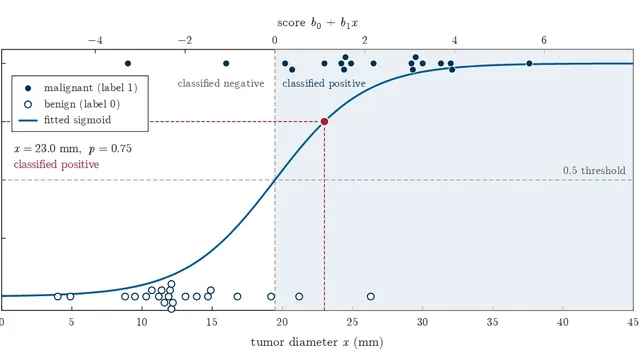
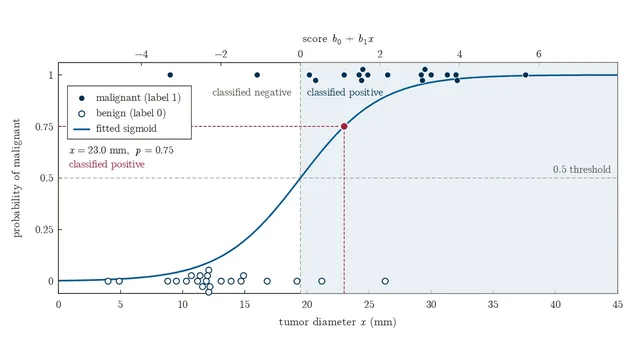
Big Picture cards cut again from today's figures, one subject each
The card pictures are cut anew from the figures rebuilt today, and each
card shows one subject that reads at a card's 190px (the audit found
whole figures and posters scaled down to grey texture, and crops that
cut an axis or left arrows pointing at nothing):

- Waves: the building's modes row through the 3rd mode and "+ higher
  modes", as the figure now shows it (the card stopped at the 2nd).
- Signal processing: its first two problems, without the arrows under
  them or the dashed link running off the edge.
- Machine learning: the whole plot, its axis and labels whole.
- Probability deck: the Probability panel alone.
- SHM introduction: panel (a), the sensor, the beam and its signal.
- Sound: the circular array of panel (b).
- SHM brochure: the building and its modes, the "+" whole, no parameter
  line.

diff --git a/tools/bp_art.py b/tools/bp_art.py
@@ -66,23 +66,28 @@ _FB = "from-bridges-to-photons"
 # must stand alone, "alone": its neighbours are left out and the box is
 # widened with paper instead).
 PICKS = {
-    # the building figure, re-laid in landscape on 5 Oct 2026: its modes row,
-    # "Total vibration = 1st mode + 2nd mode +"
-    _VW: ("content:anim/nf-building.webp", "waves-guide", (14, 12, 860, 392), "alone"),
+    # the building figure, its modes row: "Total vibration = 1st mode + 2nd mode
+    # + 3rd mode + higher modes", as he asked for it on 5 Oct 2026
+    _VW: ("content:anim/nf-building.webp", "waves-guide", (10, 8, 1335, 380), "alone"),
     _FB: ("content:anim/nf-ph-slits.webp", "photons", (0, 187, 668, 563), "alone"),
     # the guide's cover since 5 Oct 2026, the shared foundations: its first two
-    # problems, each with its computed example
-    _SP: ("content:anim/nf-sp-foundations.webp", "signal-guide", (20, 0, 880, 285), "alone"),
-    _ML: ("content:anim/nf-mla-logreg.webp", "ml-guide", (126, 25, 1300, 685)),
-    "probability-statistics.html": ("content:anim/nf-pr-overview.webp", "probability-deck", None),
+    # problems, each with its computed example, without the arrows under them
+    # or the dashed link out to the third (the audit of 5 Oct 2026)
+    _SP: ("content:anim/nf-sp-foundations.webp", "signal-guide", (22, 56, 873, 319), "alone"),
+    # the whole plot, its axis and labels whole
+    _ML: ("content:anim/nf-mla-logreg.webp", "ml-guide", (8, 50, 1334, 668), "alone"),
+    # one panel to a card, which reads at a card's 190px where a whole poster
+    # of four was grey texture (the audit of 5 Oct 2026)
+    "probability-statistics.html": ("content:anim/nf-pr-overview.webp", "probability-deck",
+                                    (15, 0, 585, 335), "alone"),
     # his research documents' pictures are redrawn too (round 12): each card
     # shows its document's own figure in the family's style
     "brochure-shm-and-ndt-2-pages": ("content:anim/nf-shm-sensors.webp", "shm-brochure",
-                                     (0, 0, 1195, 672)),
+                                     (0, 0, 1344, 612), "alone"),
     "understanding-shm-and-ndt": ("content:anim/nf-shm-ndt.webp", "shm-introduction",
-                                  (0, 0, 1312, 738)),
+                                  (0, 37, 1320, 420), "alone"),
     "sound-detection-and-tracking": ("content:anim/nf-snd-array.webp", "sound",
-                                     (0, 0, 1330, 748)),
+                                     (697, 49, 1344, 636), "alone"),
     "presentation.html": ("content:deck-phd/web/s003-1600.webp", "phd-deck", None),
 }
 

diff --git a/tests/test_pr_figures.py b/tests/test_pr_figures.py
@@ -180,16 +180,19 @@ def test_the_card_is_its_still_and_no_document_draws_it():
     sys.path.insert(0, os.path.join(ROOT, "tools"))
     import bp_art
     from PIL import Image
-    assert bp_art.PICKS[KEY] == ("content:anim/nf-pr-overview.webp", "probability-deck", None)
+    # one panel, Probability, which reads at a card's 190px where the whole
+    # poster of four was grey texture (the audit of 5 Oct 2026)
+    box = (15, 0, 585, 335)
+    assert bp_art.PICKS[KEY] == ("content:anim/nf-pr-overview.webp", "probability-deck", box, "alone")
     folder = os.path.join(ROOT, "content", "bigpicture")
     with open(os.path.join(folder, "art.json"), encoding="utf-8") as fh:
         assert json.load(fh)[KEY] == ["probability-deck.webp", 640, 360]
     with Image.open(os.path.join(ANIM, NAME + ".webp")) as im:
         im = im.convert("RGB")
-        want = bp_art.cut(im, bp_art.fit(None, im.size, 16 / 9)).resize((640, 360), Image.LANCZOS)
+        want = bp_art.cut(im, bp_art.fit(box, im.size, 16 / 9, True), box).resize((640, 360), Image.LANCZOS)
     with Image.open(os.path.join(folder, "probability-deck.webp")) as got:
         got = np.asarray(got.convert("RGB"), float)
-    assert np.abs(got - np.asarray(want, float)).mean() < 3        # the still, whole (WebP aside)
+    assert np.abs(got - np.asarray(want, float)).mean() < 3        # its panel of the still (WebP aside)
     with Image.open(os.path.join(ROOT, "content", "deck-probstat", "web", "s001-1600.webp")) as s1:
         slide = np.asarray(s1.convert("RGB").resize((640, 360), Image.LANCZOS), float)
     assert np.abs(got - slide).mean() > 10                        # no longer slide 1
